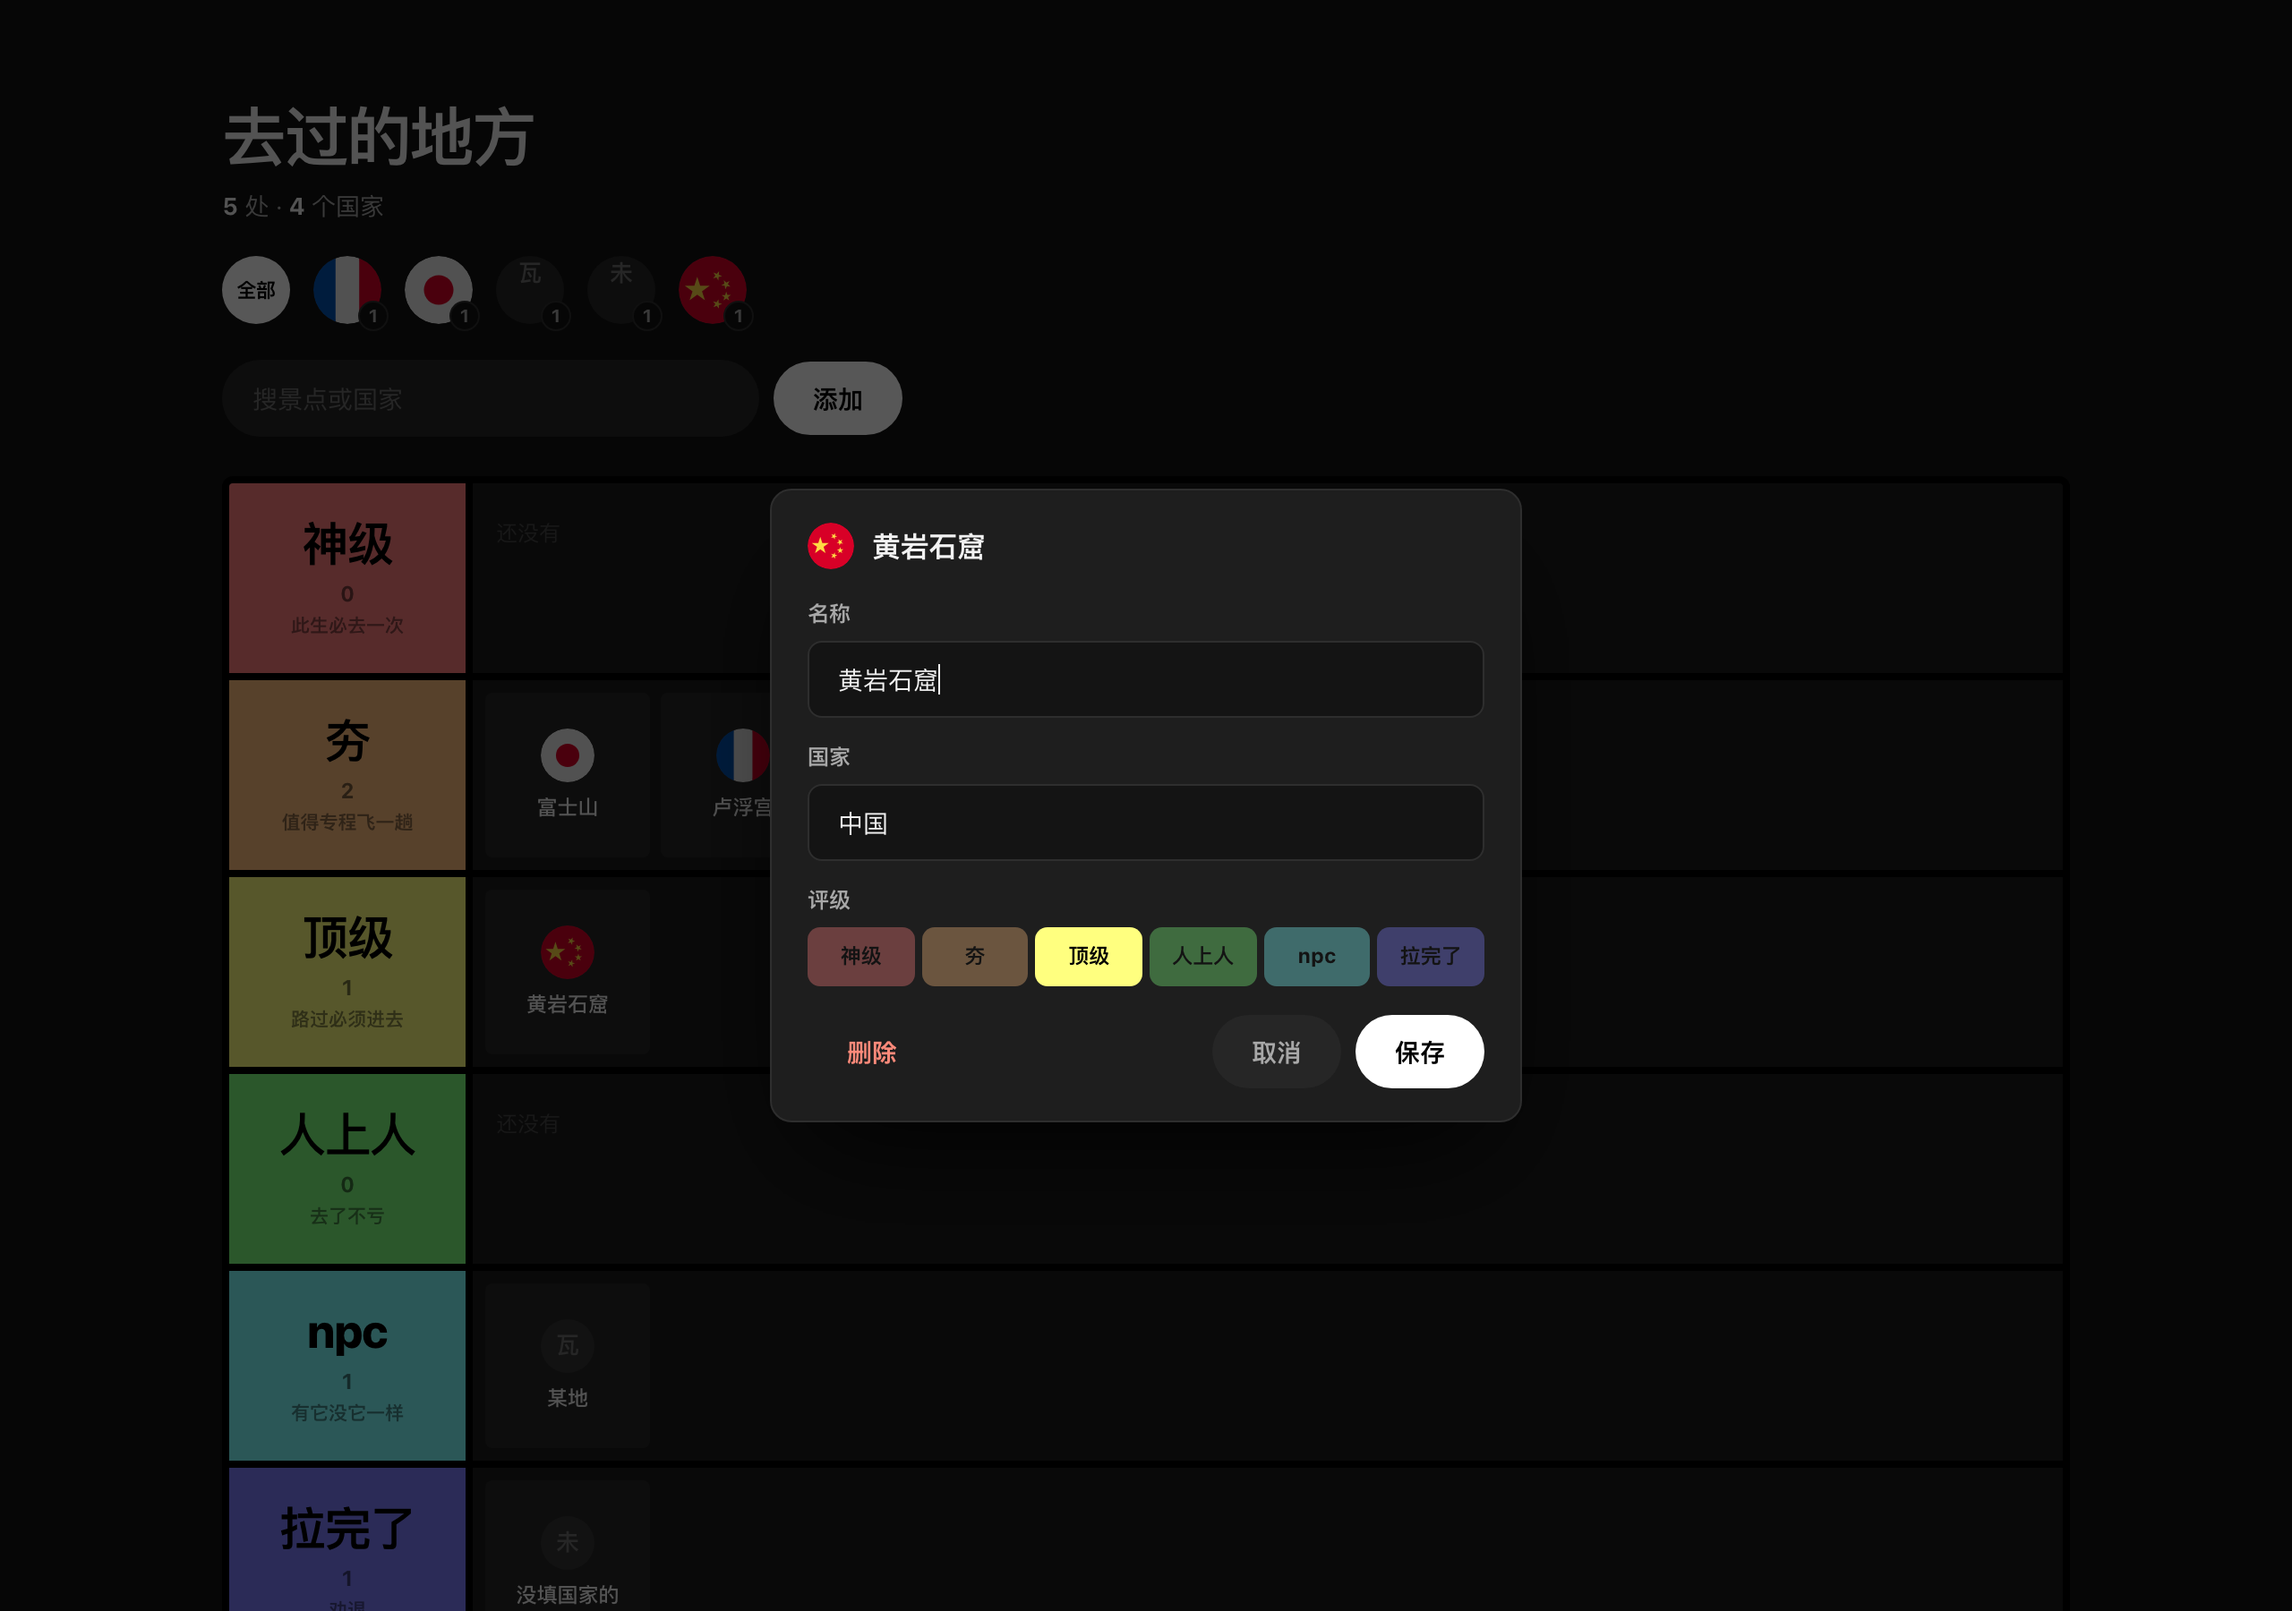
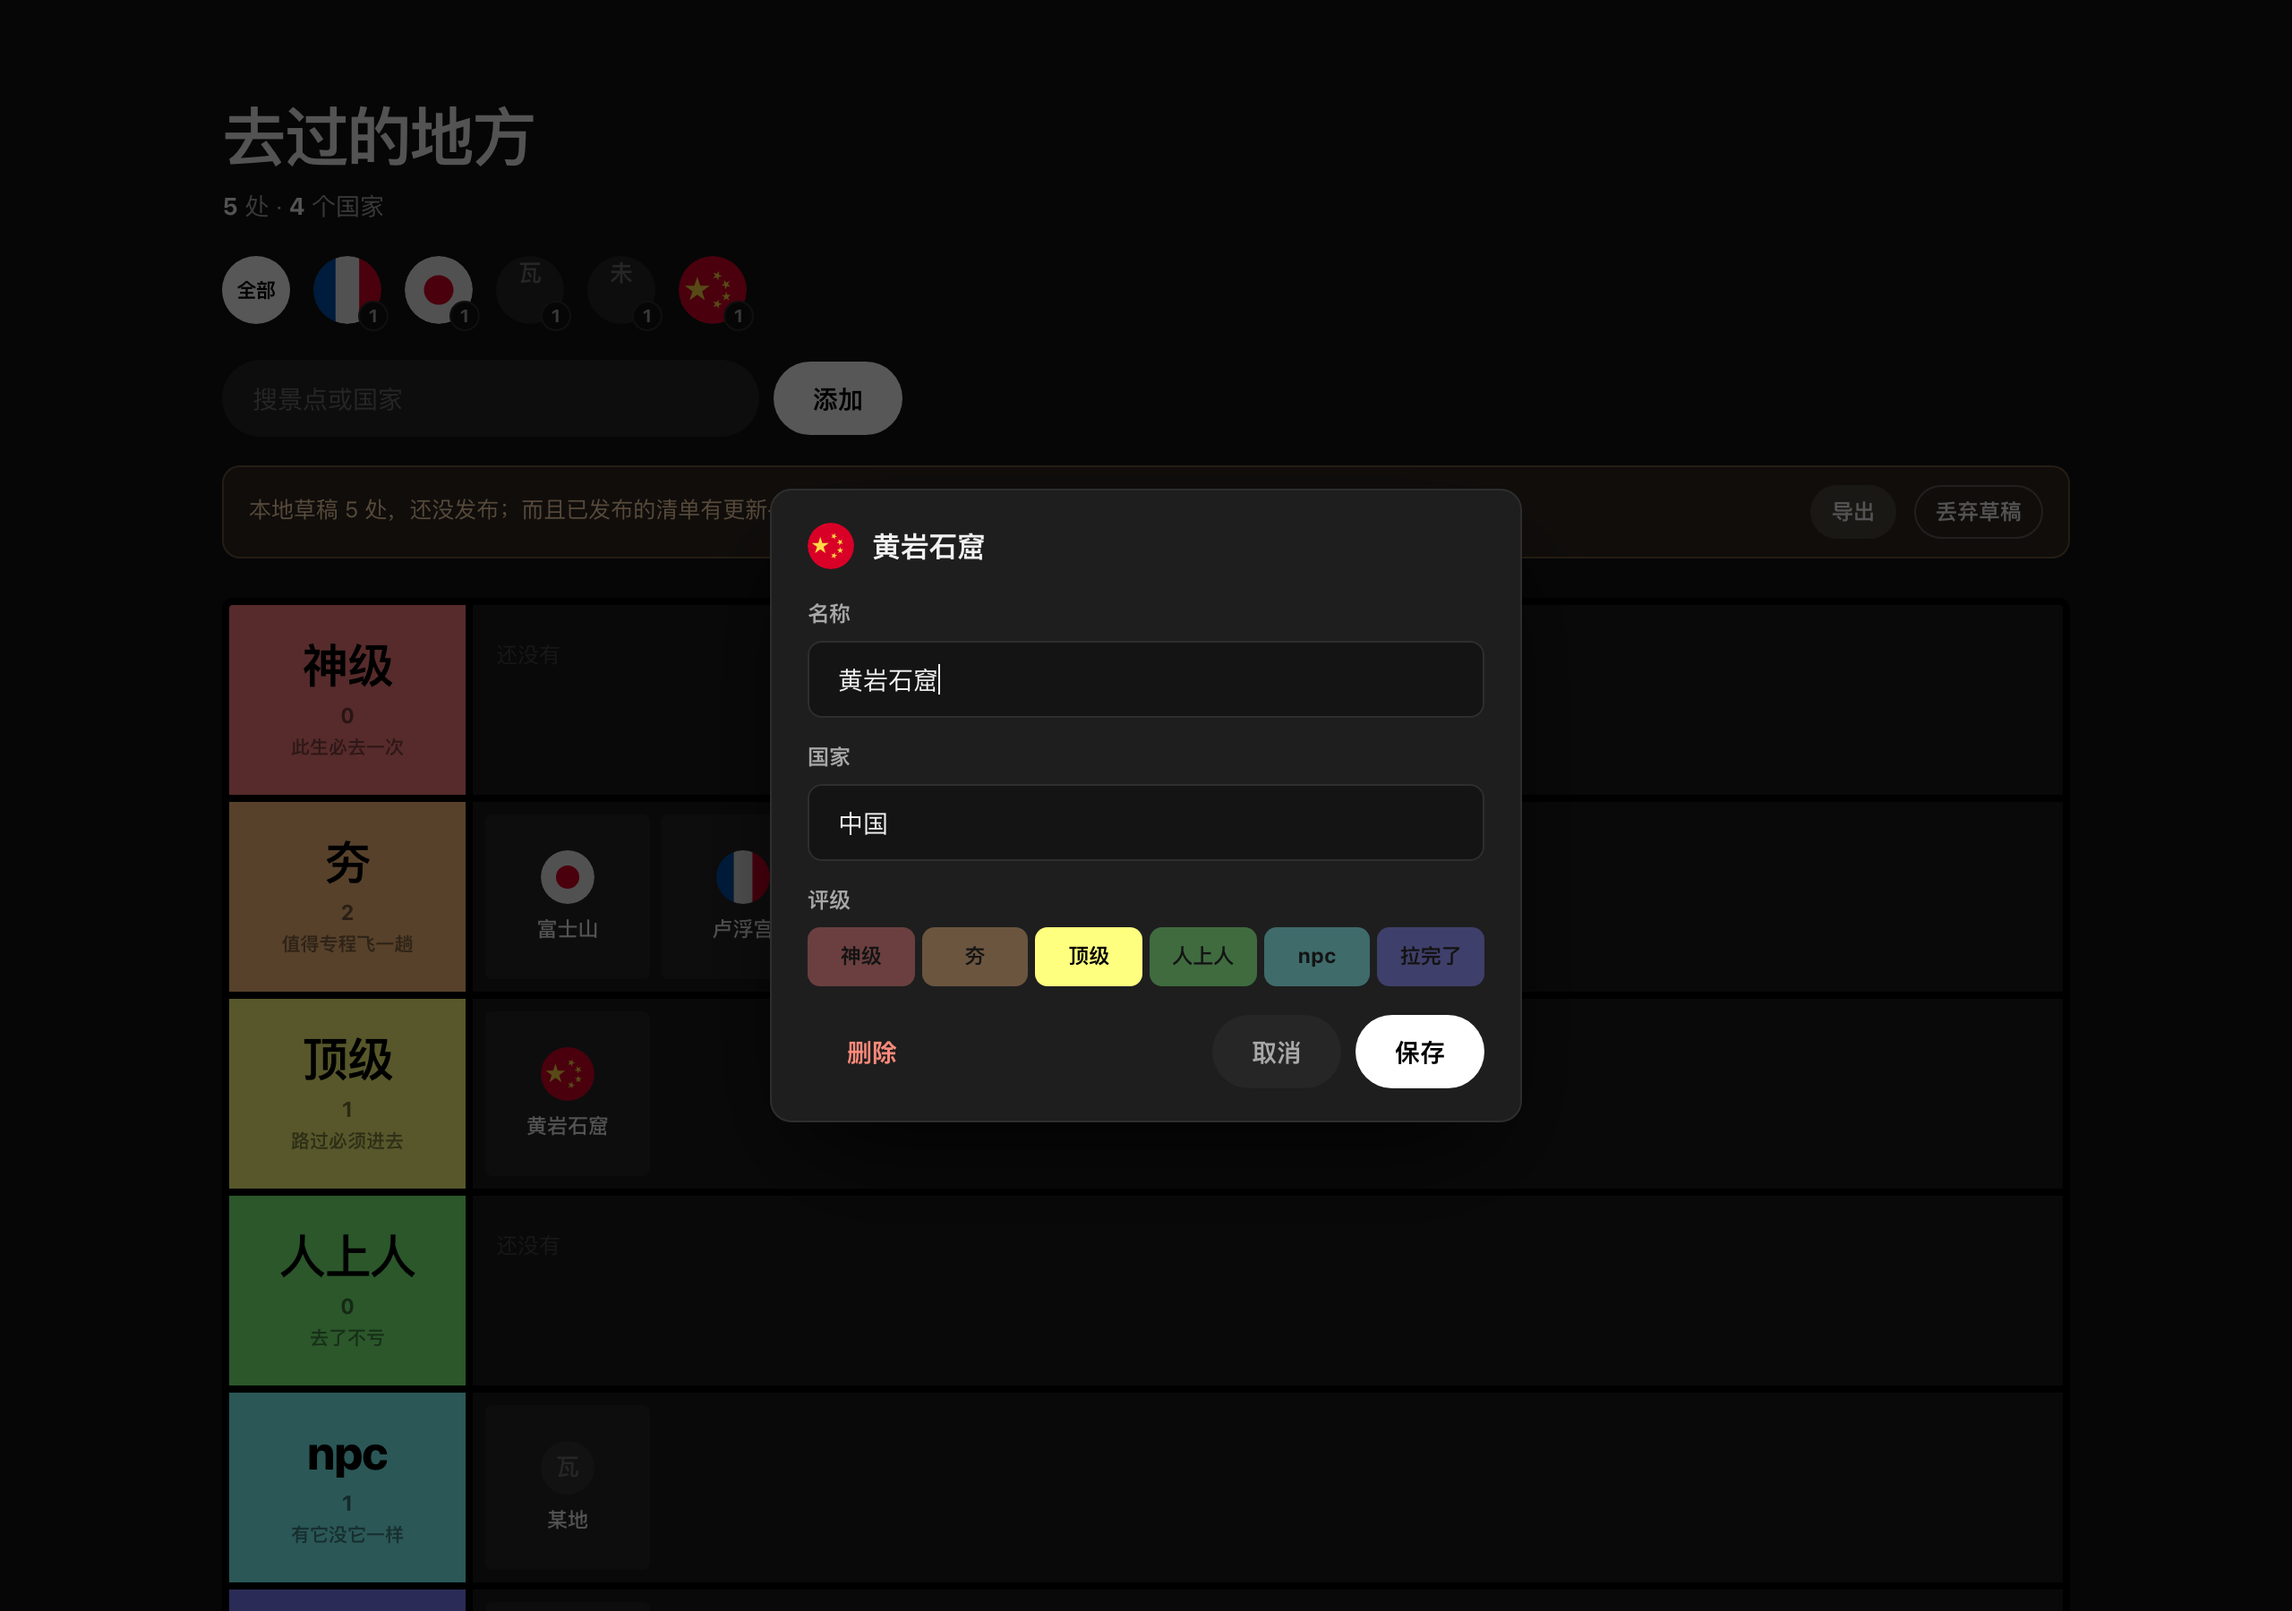
录入 6 个景点，并把清单拆到 spots.js
来自表格的 6 条（校验通过：0 重复、0 问题行，国家和档位全部可识别）：
  夯     悬空寺（中国）
  顶级   黄岩石窟、云冈石窟（中国）、金泽城（日本）
  人上人 长野户隐神社（日本）
  npc    金泽兼六园（日本）

数据层改动：
- 清单从 index.html 里的 SEED 拆到 spots.js，用 <script> 标签引入
  （不走 fetch，这样双击打开本地文件也能用），可直接在 github.com 上编辑
- localStorage 改存 {base, spots}：base 记录草稿基于哪个已发布版本
- 新增草稿提示条：有本地改动时显示，带「导出」和「丢弃草稿」；
  若已发布清单在起草后更新过，额外提示，避免旧草稿悄悄挡住线上清单
- 导出产物从 JSON 改为可直接提交的 spots.js；导入同时兼容两种格式

修复一个真 bug：.draft{display:flex} 的优先级盖过了 UA 的 [hidden]{display:none}，
导致没有草稿时提示条照样渲染（空白一条）。原断言只看 .hidden 属性，看不出来；
已改为检查 computed display 与实际高度，并回退验证过确实能抓住。

测试 50 项全过。

diff --git a/index.html b/index.html
@@ -120,6 +120,17 @@
   footer .hint{font-size:12px;color:var(--ink-3);margin-right:auto;max-width:46ch;line-height:1.55}
   .warn{font-size:12.5px;color:var(--t1);margin:14px 0 0}
 
+  /* 本地改动没发布时的提示条。没有它，浏览器里的旧草稿会悄悄挡住线上清单。 */
+  .draft[hidden]{display:none}
+  .draft{display:flex;align-items:center;gap:10px;flex-wrap:wrap;
+         margin-top:16px;padding:10px 14px;border-radius:10px;
+         background:rgba(255,191,127,.12);border:1px solid rgba(255,191,127,.3)}
+  .draft .msg{font-size:12.5px;color:#FFD9AE;margin-right:auto;line-height:1.5}
+  .draft button{font-size:12px;font-weight:600;padding:6px 12px;border-radius:999px;
+                border:0;cursor:pointer;background:rgba(255,255,255,.14);color:var(--ink)}
+  .draft button:hover{background:rgba(255,255,255,.24)}
+  .draft button.drop{background:transparent;box-shadow:inset 0 0 0 1px rgba(255,255,255,.26)}
+
   /* ---------- 弹窗 ---------- */
   dialog{border:1px solid var(--line);border-radius:12px;background:#1E1E1E;color:var(--ink);
          padding:0;width:min(420px,92vw);box-shadow:0 30px 60px -20px rgba(0,0,0,.9)}
@@ -171,6 +182,11 @@
       <input type="search" id="find" placeholder="搜景点或国家" aria-label="搜索">
       <button class="btn primary" id="add">添加</button>
     </div>
+    <div class="draft" id="draft" hidden>
+      <span class="msg" id="draft-msg"></span>
+      <button id="draft-out">导出</button>
+      <button class="drop" id="draft-drop">丢弃草稿</button>
+    </div>
     <p class="warn" id="warn" hidden>这个浏览器不让本地文件存数据，改动不会留下。用本地服务打开，或先导出备份。</p>
   </header>
 
@@ -211,6 +227,7 @@
   </form>
 </dialog>
 
+<script src="spots.js"></script>
 <script>
 (function(){
   "use strict";
@@ -251,28 +268,46 @@
   };
   var FLAG_BASE = "https://cdn.jsdelivr.net/gh/HatScripts/circle-flags@gh-pages/flags/";
 
-  var SEED = [
-    { id:"seed-huangyan", name:"黄岩石窟", country:"中国", tier:"top" }
-  ];
-
   var KEY = "scenic-tiers-v1";
   var store = { ok:true };
+  var seq = 0;
+
+  /* 已发布清单来自 spots.js，是这个网址上所有人看到的版本 */
+  var PUBLISHED = (window.SPOTS || []).map(migrate);
+
+  /* 草稿基于哪个已发布版本；null 表示当前没有草稿，看到的就是已发布的 */
+  var draftBase = null;
+
   var spots = load();
   var editingId = null;
   var pick = "";
+
+  function hashOf(list){
+    var str = JSON.stringify(list.map(function(x){ return [x.name, x.country, x.tier]; }));
+    var h = 5381;
+    for(var i=0;i<str.length;i++){ h = ((h<<5) + h + str.charCodeAt(i)) | 0; }
+    return String(h);
+  }
 
   function load(){
     try{
       var raw = localStorage.getItem(KEY);
       if(raw){
         var p = JSON.parse(raw);
-        if(Array.isArray(p)) return p.map(migrate);
+        if(Array.isArray(p)){                       // 旧版本存的是裸数组
+          draftBase = "";
+          return p.map(migrate);
+        }
+        if(p && Array.isArray(p.spots)){
+          draftBase = String(p.base == null ? "" : p.base);
+          return p.spots.map(migrate);
+        }
       }
     }catch(e){
       store.ok = false;
       document.getElementById("warn").hidden = false;
     }
-    return SEED.slice();
+    return PUBLISHED.slice();
   }
 
   /* 老版本有 place/where（地点）、date/when（时间）、note/said（一句话），已全部取消，读进来即丢弃。
@@ -280,7 +315,7 @@
   function migrate(s){
     var hadPlace = !!(s.where || s.place);
     return {
-      id: s.id || uid(),
+      id: s.id || ("p" + (++seq) + "-" + Math.random().toString(36).slice(2,6)),
       name: String(s.name || "未命名"),
       country: String(s.country || (hadPlace ? "中国" : "")),
       tier: isTier(s.tier) ? s.tier : "npc"
@@ -289,11 +324,32 @@
 
   function save(){
     if(!store.ok) return;
-    try{ localStorage.setItem(KEY, JSON.stringify(spots)); }
-    catch(e){
+    draftBase = hashOf(PUBLISHED);
+    try{
+      localStorage.setItem(KEY, JSON.stringify({ base: draftBase, spots: bare(spots) }));
+    }catch(e){
       store.ok = false;
       document.getElementById("warn").hidden = false;
     }
+  }
+
+  function bare(list){
+    return list.map(function(s){
+      return { name:s.name, country:s.country, tier:s.tier };
+    });
+  }
+
+  /* 导出的就是可以直接提交进仓库的 spots.js */
+  function spotsJs(list){
+    return "/* 景点清单。改这个文件就能更新网站，不用碰 index.html。\n" +
+           "   tier 取 shen / hang / top / ren / npc / la\n" +
+           "   （神级 / 夯 / 顶级 / 人上人 / npc / 拉完了） */\n" +
+           "window.SPOTS = [\n" +
+           list.map(function(s){
+             return '  { "name": ' + JSON.stringify(s.name) +
+                    ', "country": ' + JSON.stringify(s.country) +
+                    ', "tier": ' + JSON.stringify(s.tier) + ' }';
+           }).join(",\n") + "\n];\n";
   }
 
   function isTier(k){
@@ -397,7 +453,29 @@
 
     document.getElementById("countries").innerHTML =
       Object.keys(ISO).map(function(c){ return '<option value="' + esc(c) + '">'; }).join("");
+
+    paintDraft();
   }
+
+  var draftBar = document.getElementById("draft");
+  function paintDraft(){
+    var on = draftBase !== null;
+    draftBar.hidden = !on;
+    if(!on) return;
+    var stale = draftBase !== hashOf(PUBLISHED);
+    document.getElementById("draft-msg").textContent = stale
+      ? "本地草稿 " + spots.length + " 处，还没发布；而且已发布的清单有更新——丢弃草稿就能看到最新版"
+      : "本地草稿 " + spots.length + " 处，还没发布。导出后提交 spots.js 才会出现在网址上。";
+  }
+
+  document.getElementById("draft-drop").addEventListener("click", function(){
+    if(!confirm("丢弃本地草稿，回到已发布的清单？")) return;
+    try{ localStorage.removeItem(KEY); }catch(e){}
+    draftBase = null;
+    spots = PUBLISHED.slice();
+    pick = "";
+    render();
+  });
 
   /* ---------- 弹窗 ---------- */
   var dlg  = document.getElementById("dlg");
@@ -497,15 +575,18 @@
   find.addEventListener("input", render);
 
   /* ---------- 导入导出 ---------- */
-  document.getElementById("out").addEventListener("click", function(){
-    var blob = new Blob([JSON.stringify(spots, null, 2)], {type:"application/json"});
+  function exportSpots(){
+    var blob = new Blob([spotsJs(spots)], {type:"text/javascript;charset=utf-8"});
     var url = URL.createObjectURL(blob);
     var a = document.createElement("a");
-    a.href = url; a.download = "去过的地方.json"; a.click();
+    a.href = url; a.download = "spots.js"; a.click();
     URL.revokeObjectURL(url);
-  });
+  }
+  document.getElementById("out").addEventListener("click", exportSpots);
+  document.getElementById("draft-out").addEventListener("click", exportSpots);
 
   var file = document.getElementById("file");
+  file.setAttribute("accept", ".js,.json,application/json,text/javascript");
   document.getElementById("in").addEventListener("click", function(){ file.click(); });
   file.addEventListener("change", function(){
     var f = file.files[0];
@@ -513,7 +594,10 @@
     var reader = new FileReader();
     reader.onload = function(){
       try{
-        var data = JSON.parse(reader.result);
+        var txt = String(reader.result);
+        var i = txt.indexOf("["), j = txt.lastIndexOf("]");   /* spots.js 和裸 JSON 都吃 */
+        if(i < 0 || j < i) throw new Error("这个文件里没有清单");
+        var data = JSON.parse(txt.slice(i, j + 1));
         if(!Array.isArray(data)) throw new Error("这个文件不是备份");
         spots = data.map(migrate);
         pick = "";

diff --git a/spots.js b/spots.js
@@ -1,0 +1,11 @@
+/* 景点清单。改这个文件就能更新网站，不用碰 index.html。
+   tier 取 shen / hang / top / ren / npc / la
+   （神级 / 夯 / 顶级 / 人上人 / npc / 拉完了） */
+window.SPOTS = [
+  { "name": "黄岩石窟", "country": "中国", "tier": "top" },
+  { "name": "云冈石窟", "country": "中国", "tier": "top" },
+  { "name": "悬空寺", "country": "中国", "tier": "hang" },
+  { "name": "长野户隐神社", "country": "日本", "tier": "ren" },
+  { "name": "金泽城", "country": "日本", "tier": "top" },
+  { "name": "金泽兼六园", "country": "日本", "tier": "npc" }
+];

diff --git a/README.md b/README.md
@@ -6,7 +6,7 @@
 
 ![预览](shot-dense.png)
 
-> 上图是 60 条示例数据。仓库里只带一条真实记录（黄岩石窟 / 中国）。
+> 上图是示例渲染。真实清单在 `spots.js` 里。
 
 每条记录两个字段：**名称**和**国家**。
 
@@ -45,13 +45,27 @@
 
 填国家时输入框带候选列表，认得出的国家会在弹窗标题旁实时显示国旗。
 
-## 数据存在哪
+## 数据在哪
 
-浏览器的 localStorage，**按设备存，不上传服务器**。手机上加的，电脑上看不到。
-换设备或清缓存前记得导出 JSON。
+**已发布清单在 `spots.js`。** 改这个文件就能更新网站，不用碰 `index.html`——
+可以直接在 github.com 上点开编辑，手机也能改，提交后一两分钟自动上线。
 
-存档是一个数组，每项四个键：`id` `name` `country` `tier`。
-`tier` 取 `shen` / `hang` / `top` / `ren` / `npc` / `la`。
+```js
+window.SPOTS = [
+  { "name": "黄岩石窟", "country": "中国", "tier": "top" }
+];
+```
+
+`tier` 取 `shen` / `hang` / `top` / `ren` / `npc` / `la`
+（神级 / 夯 / 顶级 / 人上人 / npc / 拉完了）。
+
+**在页面上点「添加」改出来的东西是本地草稿**，只存在你这台设备的浏览器里，
+别人看不到。有草稿时页面顶部会出现一条提示，上面两个按钮：
+
+- **导出** —— 下载一份 `spots.js`，提交进仓库就等于发布
+- **丢弃草稿** —— 回到已发布的清单
+
+如果已发布的清单在你起草之后更新过，提示条会额外说明，免得你以为网站没更新。
 
 旧版有过 `place`/`where`（地点）、`date`/`when`（时间）、`note`/`said`（一句话），
 现已全部取消，读进来即丢弃。旧记录没有国家字段，凡是有过地点的一律按「中国」处理。
